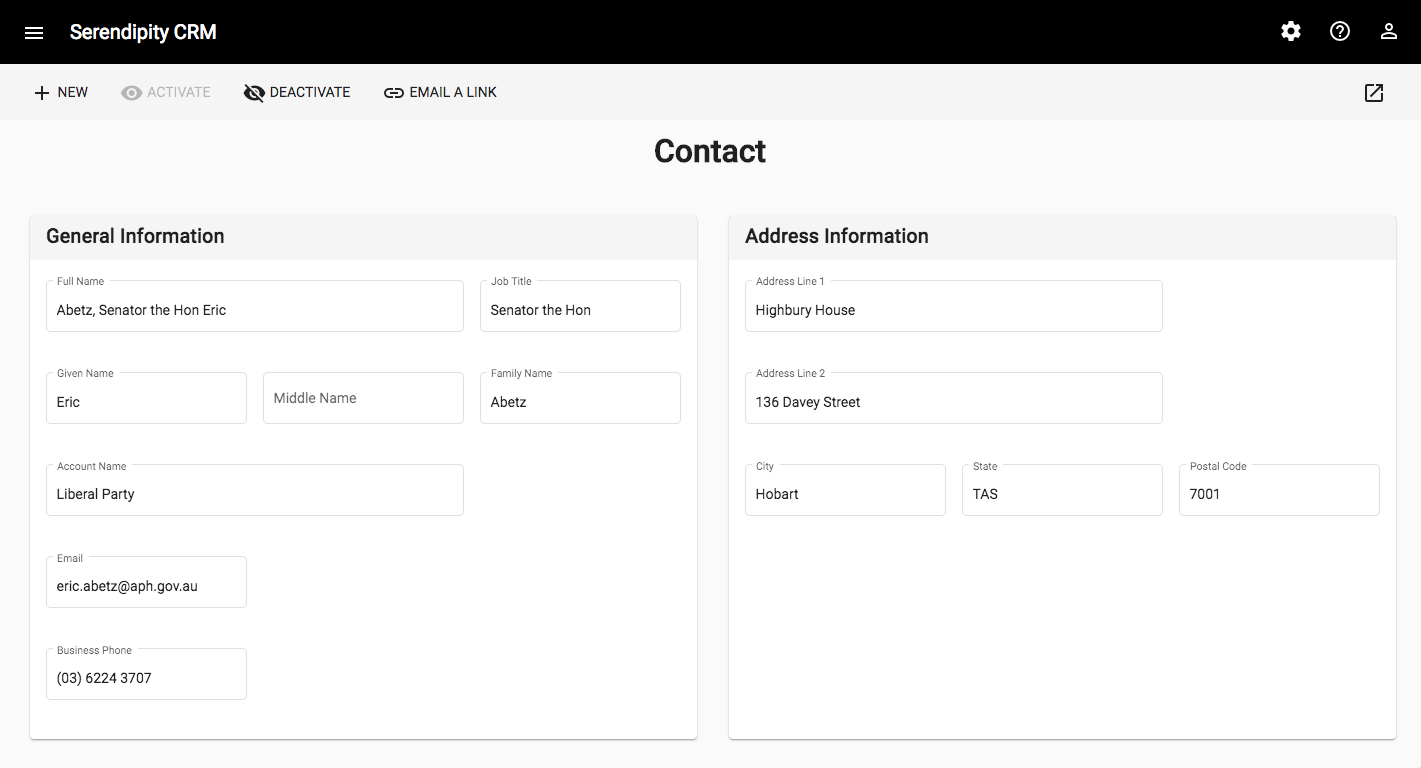
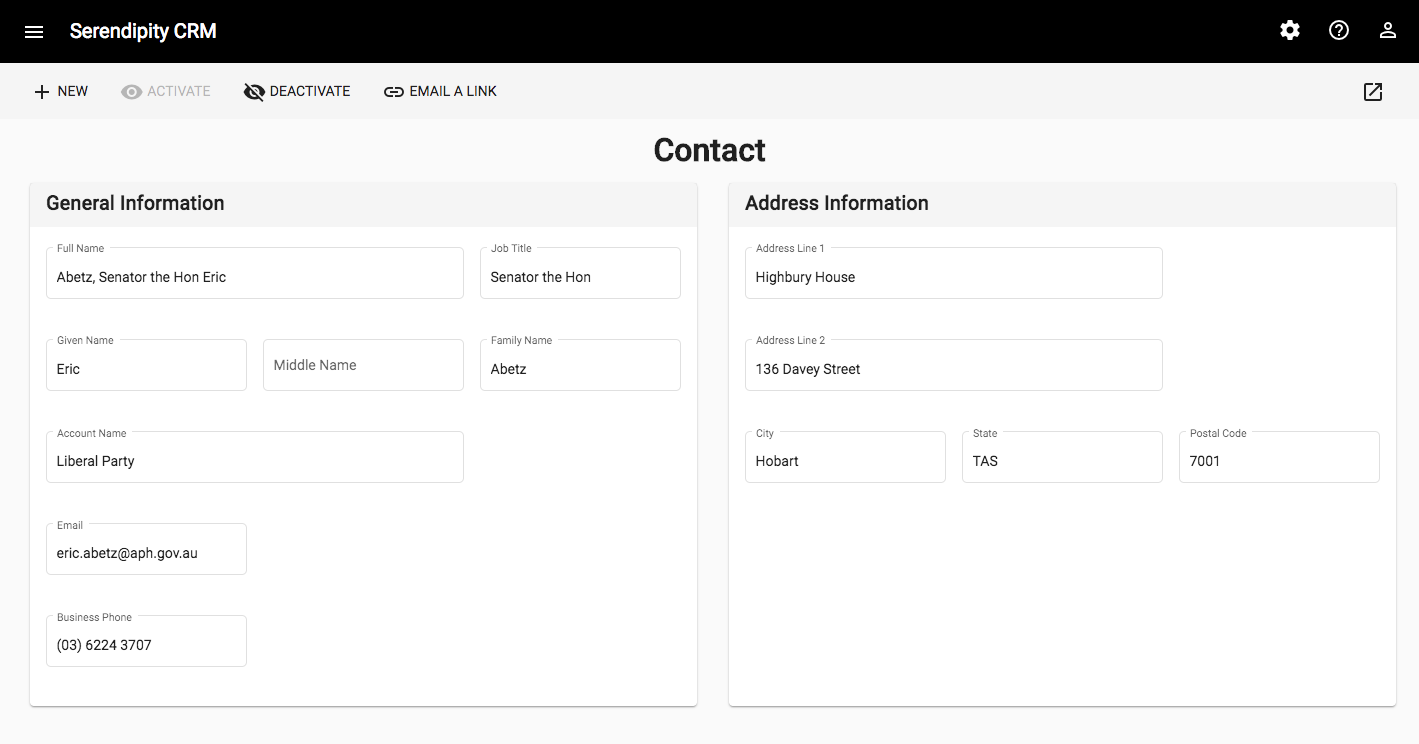
Created the Serendipity Components lib

diff --git a/projects/sales/src/lib/components/contact/contact.component.scss b/projects/sales/src/lib/components/contact/contact.component.scss
@@ -56,7 +56,10 @@ See: styles.scss for ...
   column-gap: 32px;
   row-gap: 1em;
 
-  margin: 32px;
+  margin-top: 0;
+  margin-left: 32px;
+  margin-bottom: 32px;
+  margin-right: 32px;
 }
 
 /*
